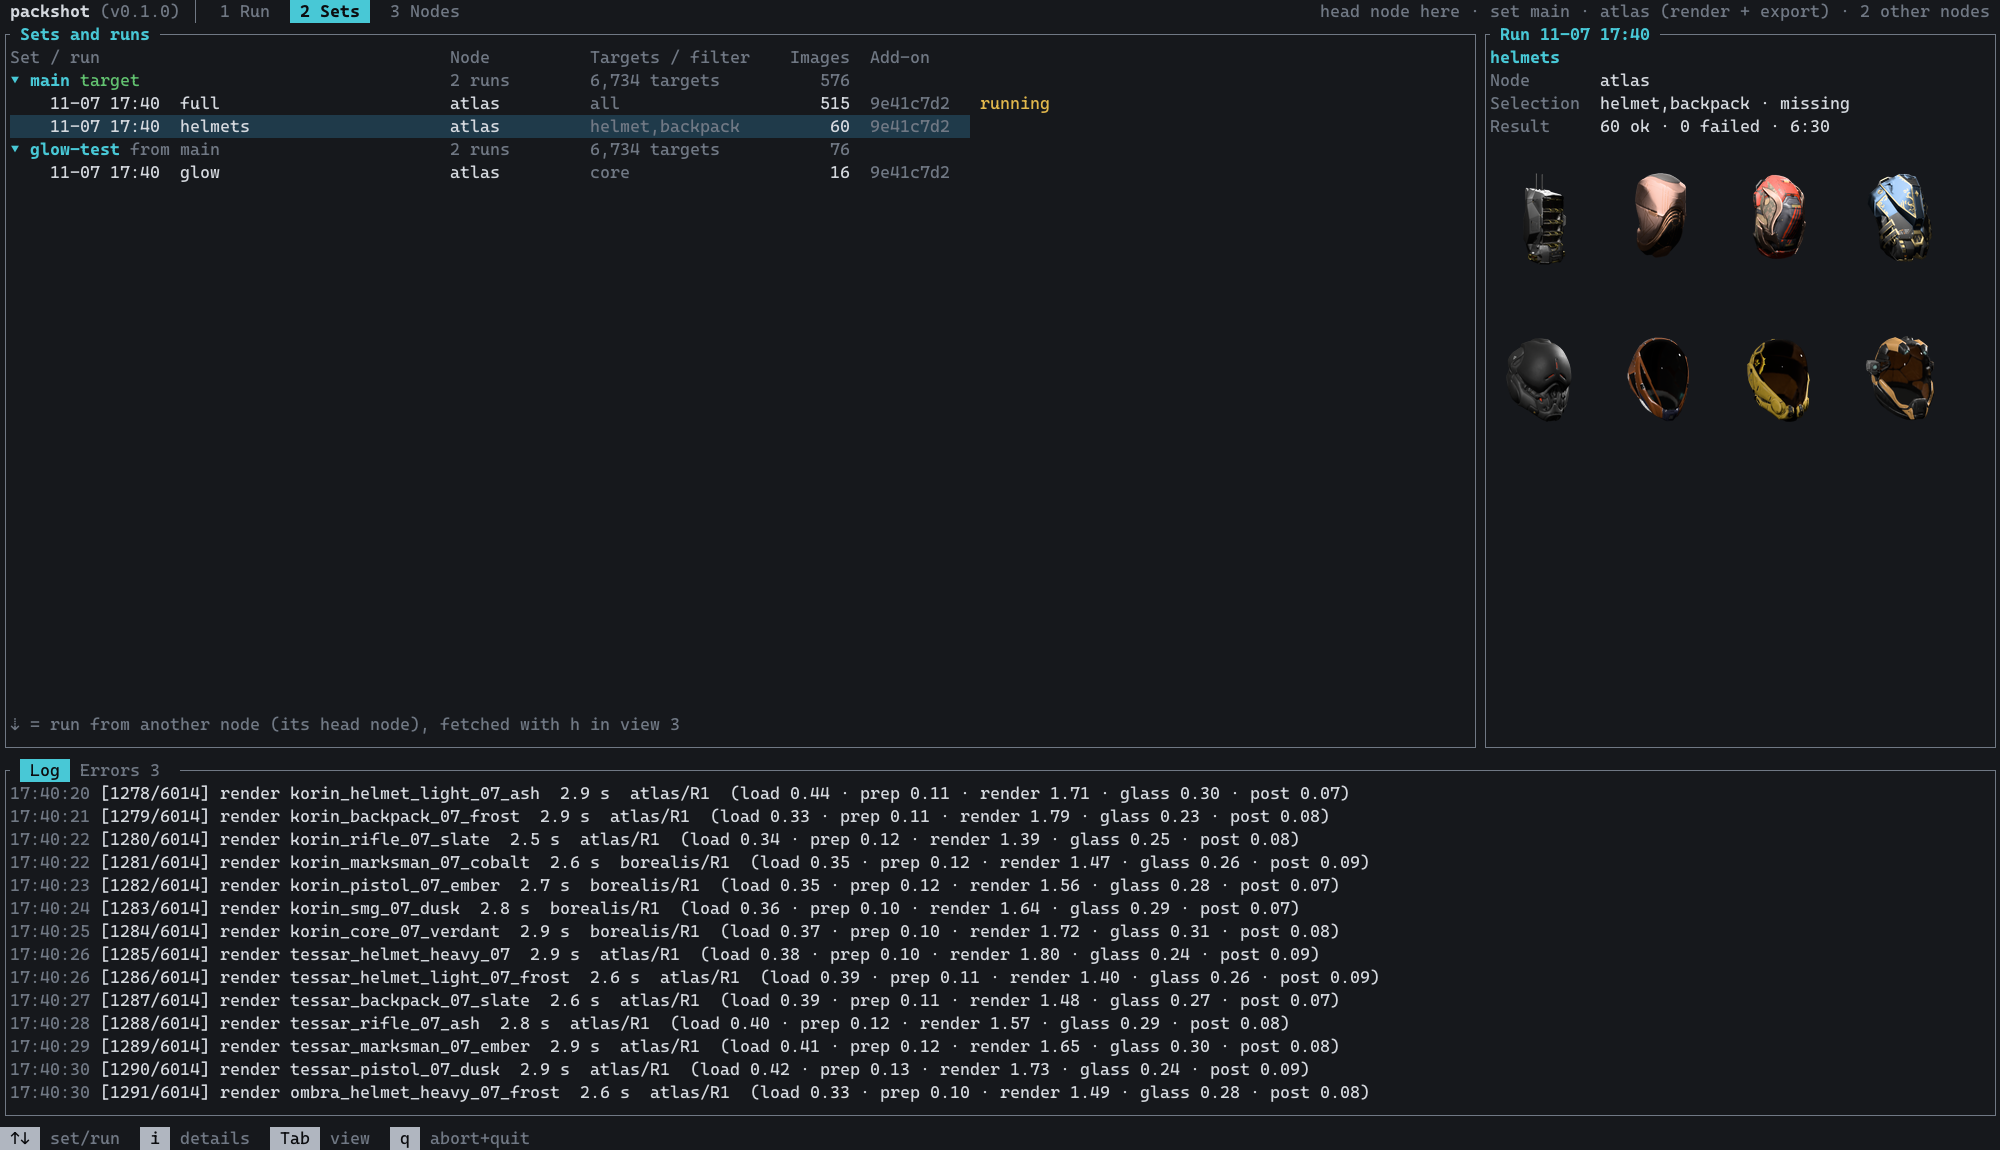
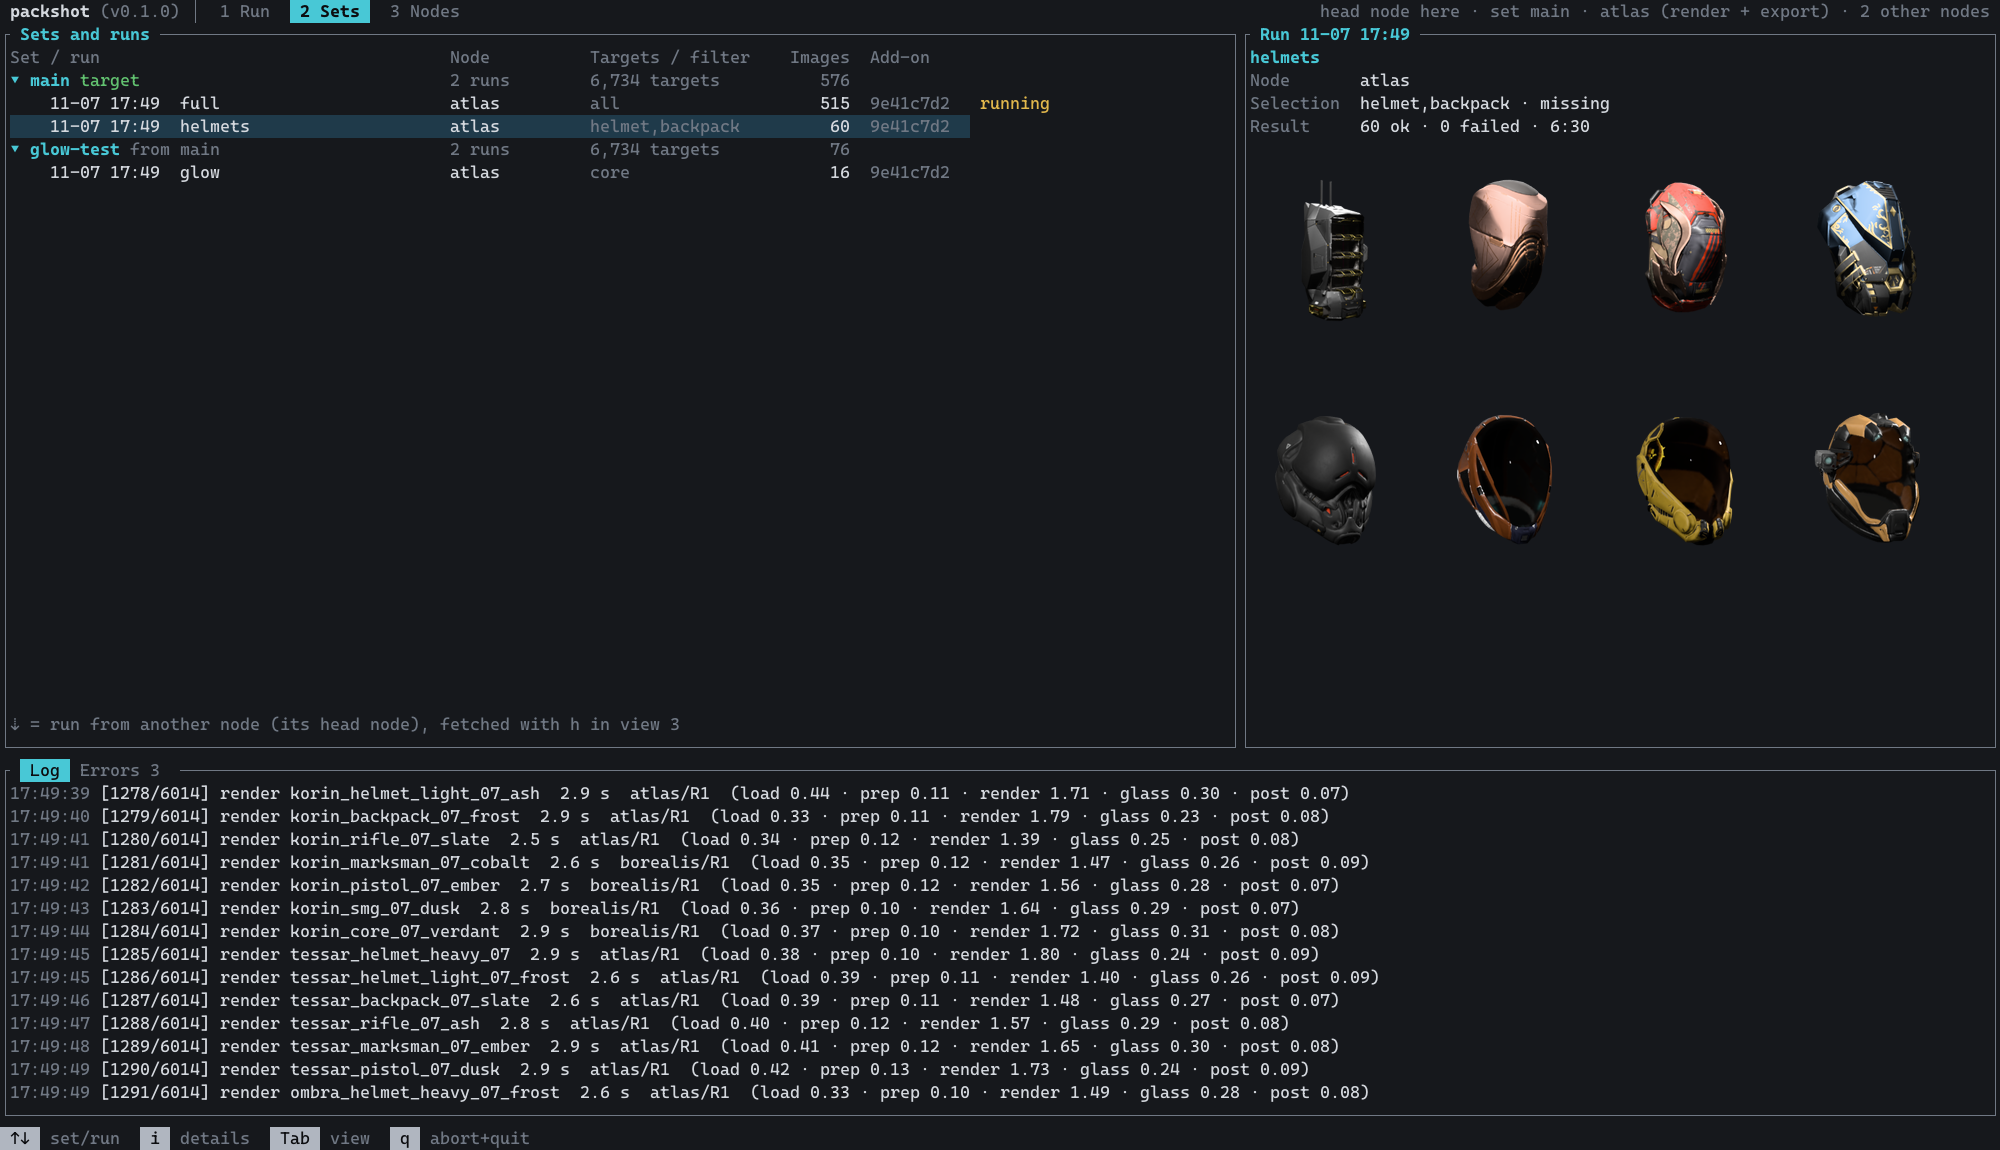
Sets view: wider detail tile (76 columns)

diff --git a/src/ui.rs b/src/ui.rs
@@ -1919,7 +1919,7 @@ fn draw_sets(f: &mut Frame, app: &mut App, area: Rect) {
         draw_remote_sets(f, app, area);
         return;
     }
-    let [left, right] = Layout::horizontal([Constraint::Min(60), Constraint::Length(52)]).areas(area);
+    let [left, right] = Layout::horizontal([Constraint::Min(60), Constraint::Length(76)]).areas(area);
     let block = boxed("Sets and runs");
     let inner = block.inner(left);
     f.render_widget(block, left);
